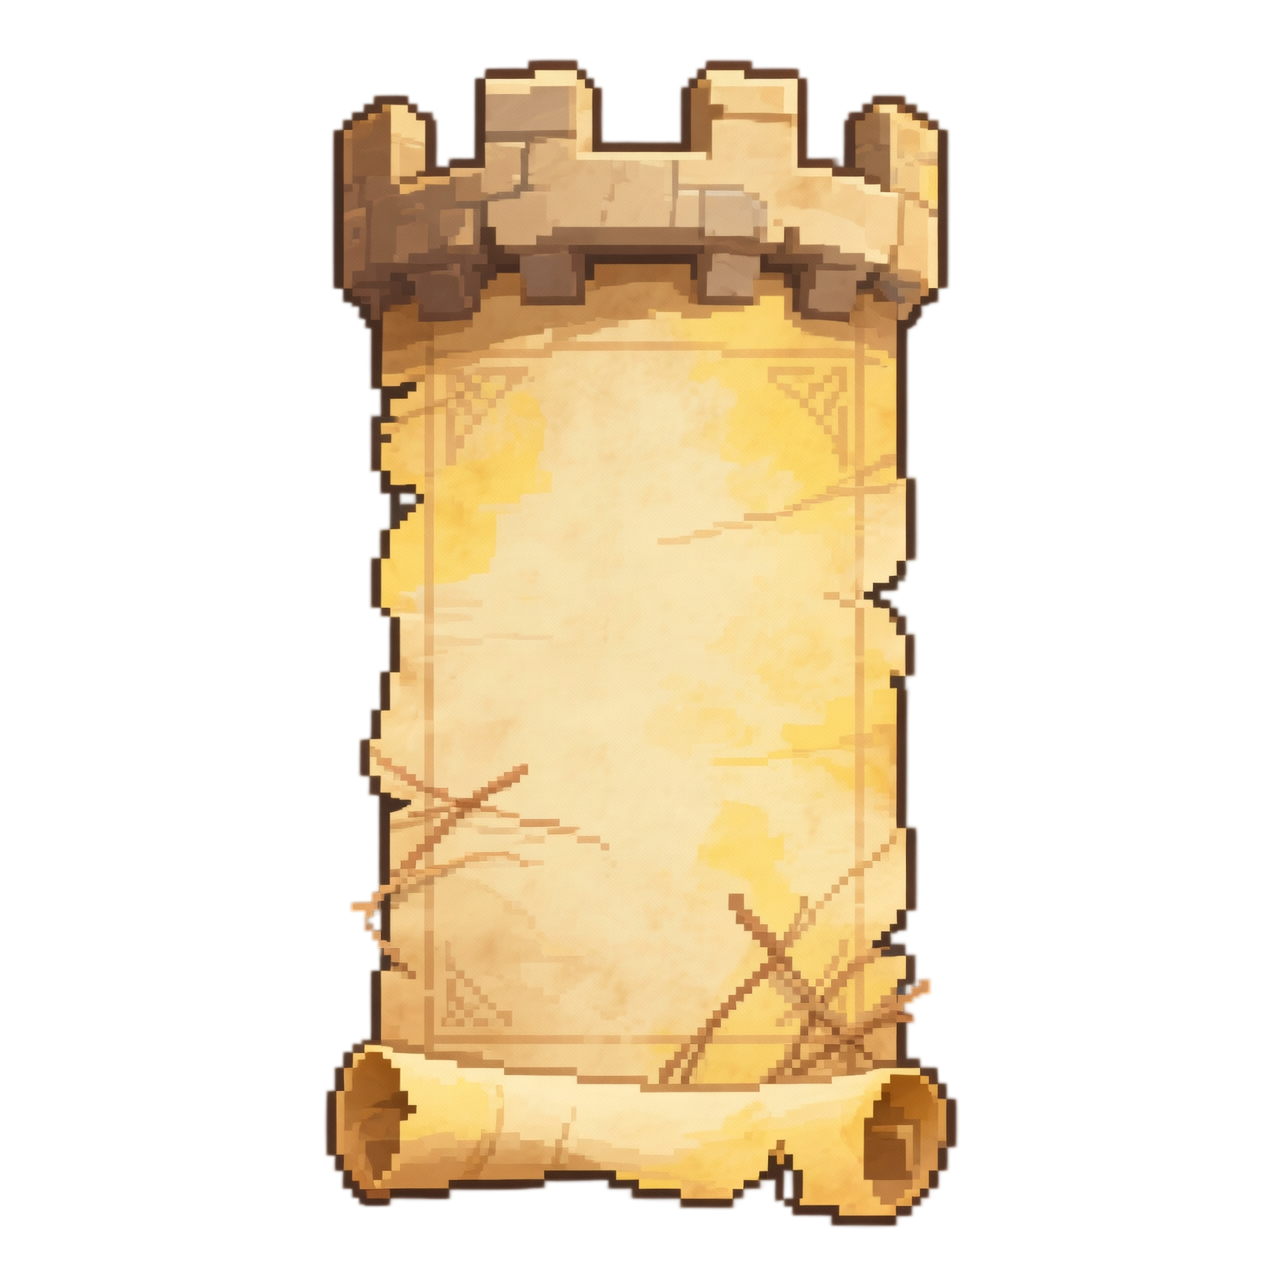
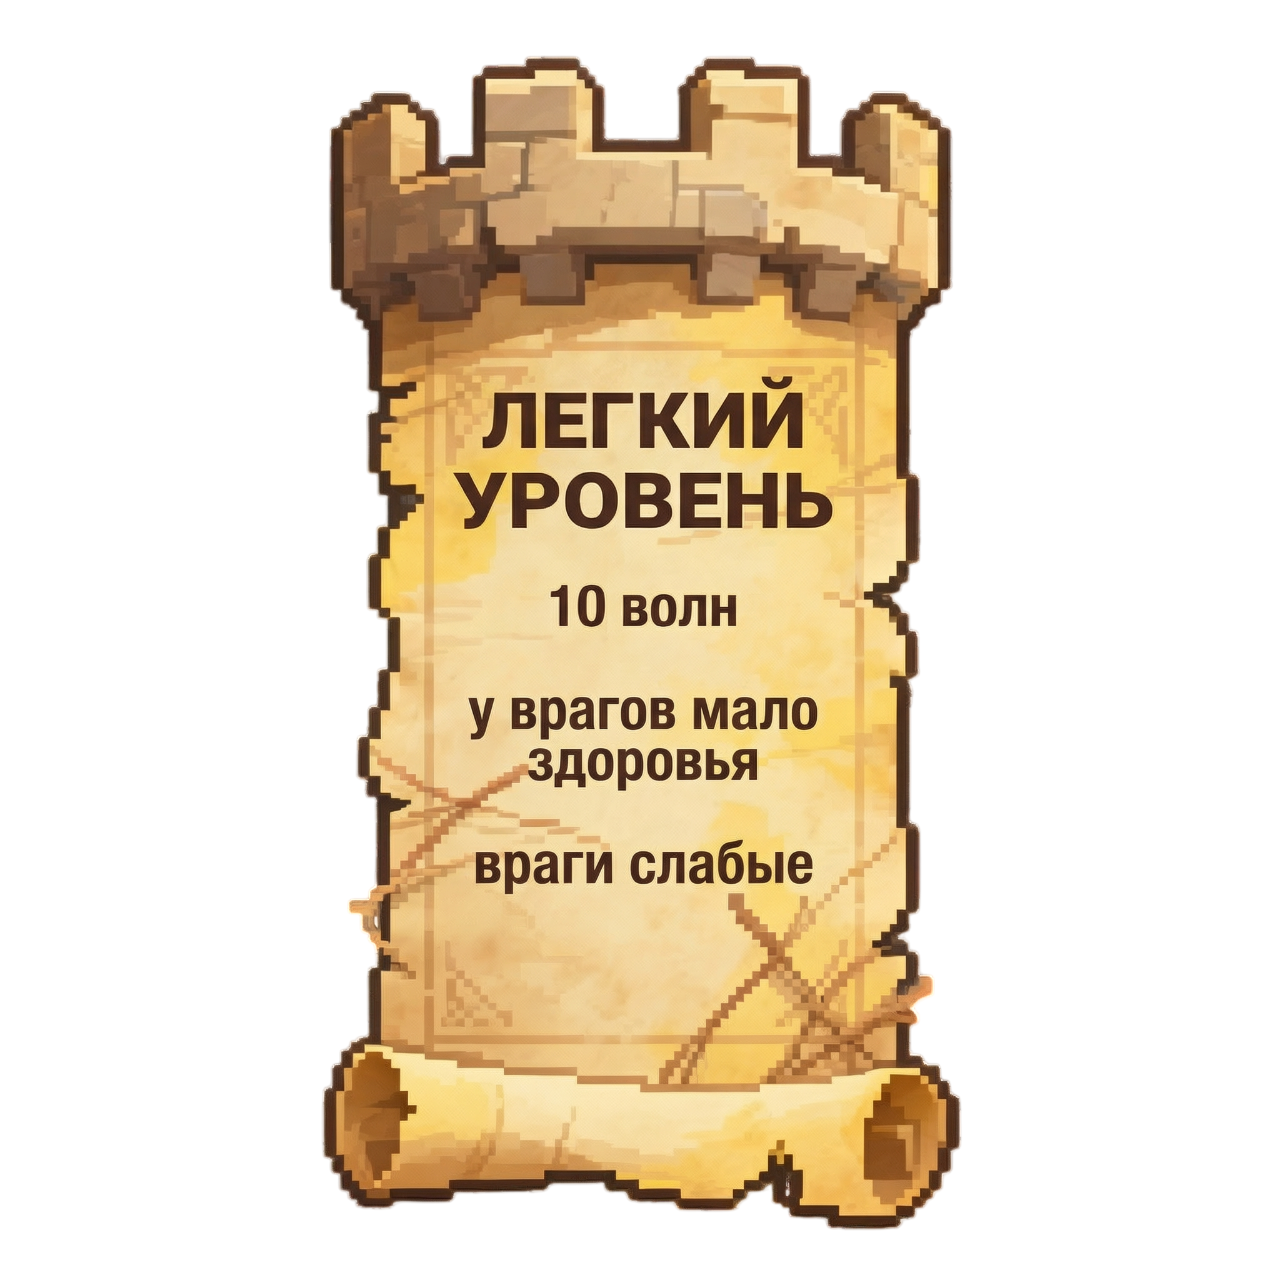
add more assets, ext level_select

diff --git a/game/views/level_select.py b/game/views/level_select.py
@@ -6,8 +6,10 @@ class LevelSelect(arcade.View):
     def __init__(self):
         super().__init__()
 
-        level_select_sprite_list = arcade.SpriteList()
-        cursor_sprite_list = arcade.SpriteList()
+        self.level_select_sprite_list = arcade.SpriteList()
+        self.cursor_sprite_list = arcade.SpriteList()
+
+        self.setup()
 
     def setup(self):
         BASE_PATH = os.path.dirname(os.path.abspath(__file__))
@@ -25,23 +27,65 @@ class LevelSelect(arcade.View):
         
         self.papirus_easy = arcade.Sprite(
             os.path.join(ASSETS_PATH, "pngs", "papirus_lvl_select_easy.png"),
-            scale=1
+            scale=0.5
         )
+
+        self.papirus_easy.center_x = (self.window.width / 2) / 2
+        self.papirus_easy.center_y = self.window.height / 2
         
         self.papirus_normal = arcade.Sprite(
             os.path.join(ASSETS_PATH, "pngs", "papirus_lvl_select_normal.png"),
-            scale=1
+            scale=0.5
         )
+
+        self.papirus_normal.center_x = self.window.width / 2
+        self.papirus_normal.center_y = self.window.height / 2
 
         self.papirus_hard = arcade.Sprite(
             os.path.join(ASSETS_PATH, "pngs", "papirus_lvl_select_hard.png"),
-            scale=1
+            scale=0.5
         )
+
+        self.papirus_hard.center_x = self.window.width - ((self.window.width / 2) / 2)
+        self.papirus_hard.center_y = self.window.height / 2
+
+        self.back_to_main_menu_btn = arcade.Sprite(
+            os.path.join(ASSETS_PATH, "pngs", "level_select_back_to_main_menu_btn.png"),
+            scale=0.2
+        )
+
+        self.back_to_main_menu_btn.center_x = self.window.width / 2
+        self.back_to_main_menu_btn.center_y = ((self.window.height / 2) / 2) / 2
+
+        self.level_select_sprite_list.append(self.papirus_easy)
+        self.level_select_sprite_list.append(self.papirus_normal)
+        self.level_select_sprite_list.append(self.papirus_hard)
+        self.level_select_sprite_list.append(self.back_to_main_menu_btn)
 
     def on_draw(self):
         self.clear()
 
+        arcade.draw_texture_rect(
+            self.bg_img, 
+            arcade.rect.XYWH(self.window.width // 2, self.window.height // 2, self.window.width, self.window.height)
+        )
 
+        self.level_select_sprite_list.draw()
+        self.cursor_sprite_list.draw()
+
+    def on_mouse_press(self, x, y, button, modifiers):
+        clicked_sprites = arcade.get_sprites_at_point((x, y), self.level_select_sprite_list)
+
+        for sprite in clicked_sprites:
+            if sprite == self.back_to_main_menu_btn:
+                from views.main_menu import MainMenuView
+                main_view = MainMenuView(True if self.music_player and self.music_player.playing else False)
+                self.window.show_view(main_view)
+                pass
+            elif sprite == self.github_logo:
+                pass
+            elif sprite == self.start_btn:
+                pass
 
     def on_mouse_motion(self, x, y, dx, dy):
         self.medival_cursor.center_x = x

diff --git a/game/views/main_menu.py b/game/views/main_menu.py
@@ -5,14 +5,16 @@ from config import MUSIC_VOLUME, GITHUB_REPO_PAGE
 from views.level_select import LevelSelect
 
 class MainMenuView(arcade.View):
-    def __init__(self):
+    def __init__(self, is_music=True):
         super().__init__()
+        self.is_music = is_music
 
         self.main_menu_buttons = arcade.SpriteList()
         self.cursor_sprite_list = arcade.SpriteList()
 
         self.main_theme_music = None
         self.music_player = None
+        self.setup()
 
     def setup(self):
         BASE_PATH = os.path.dirname(os.path.abspath(__file__))
@@ -65,9 +67,10 @@ class MainMenuView(arcade.View):
         self.main_menu_buttons.append(self.main_menu_title)
         self.main_menu_buttons.append(self.github_logo)
 
-        music_path = os.path.join(ASSETS_PATH, "music", "main_theme.mp3")
-        self.main_theme_music = arcade.load_sound(music_path)
-        self.music_player = arcade.play_sound(self.main_theme_music, volume=MUSIC_VOLUME, loop=True)
+        if not self.is_music:
+            music_path = os.path.join(ASSETS_PATH, "music", "main_theme.mp3")
+            self.main_theme_music = arcade.load_sound(music_path)
+            self.music_player = arcade.play_sound(self.main_theme_music, volume=MUSIC_VOLUME, loop=True)
 
     def on_show_view(self):
         self.window.set_mouse_visible(False)
